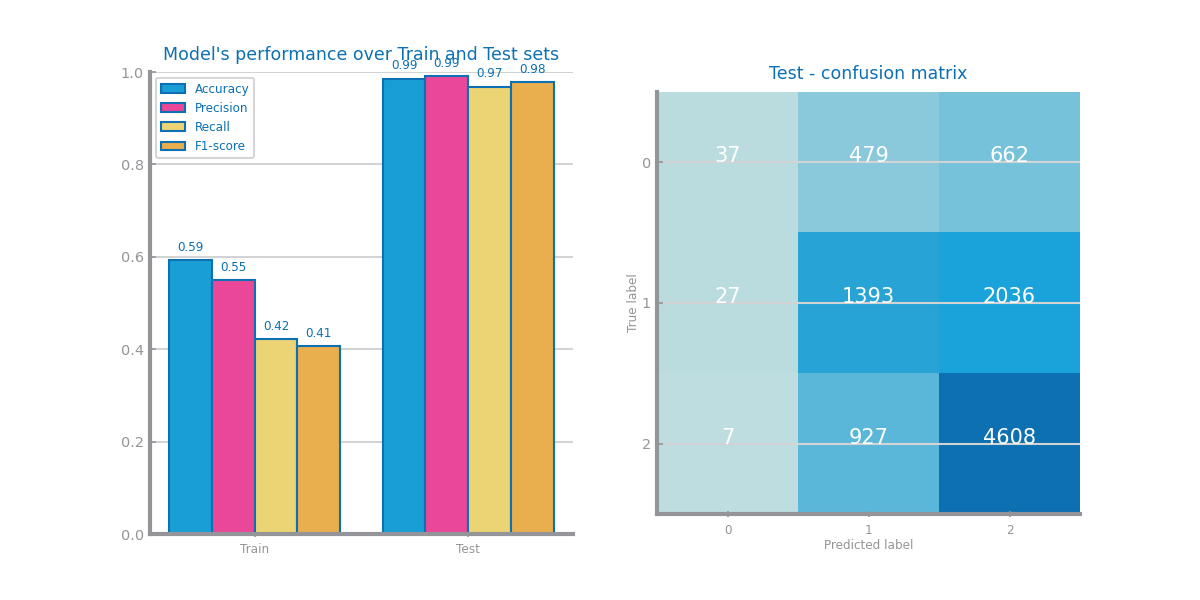
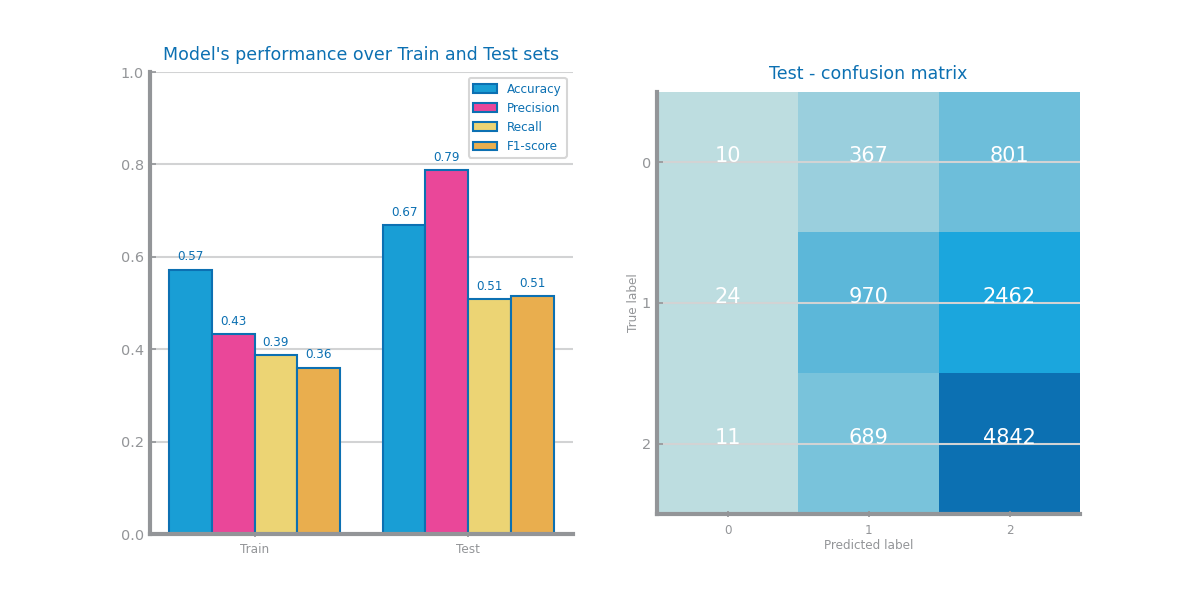
all images added

diff --git a/diabetesDataset/lab4/parameterisationRandomForests.py b/diabetesDataset/lab4/parameterisationRandomForests.py
@@ -3,7 +3,7 @@ from numpy import std, argsort
 from numpy import ndarray
 from pandas import DataFrame, read_csv, unique
 import matplotlib as plt
-from matplotlib.pyplot import figure, subplots, savefig, show, plot
+from matplotlib.pyplot import figure, subplots, savefig, show, tight_layout
 from sklearn.ensemble import RandomForestClassifier
 from ds_charts import set_elements, plot_evaluation_results, multiple_line_chart, horizontal_bar_chart, HEIGHT
 from sklearn.metrics import accuracy_score
@@ -12,7 +12,7 @@ import numpy as np
 import pandas as pd
 
 # %% Load File Tag
-file_tag = 'v1.0'
+file_tag = 'v1.2'
 
 
 # %% Load Datasets
@@ -29,9 +29,9 @@ labels = unique(yTrain)
 labels.sort()
 
 # %% Grid Search
-n_estimators = [5, 10, 25, 50, 75, 100, 200, 300, 400]
-max_depths = [5, 10, 25]
-max_features = [.25, .5, .75, 1]
+n_estimators = [175, 200, 225]
+max_depths = [25, 35, 45]
+max_features = [0.2, .25, 0.3]
 best = ('', 0, 0)
 last_best = 0
 best_model = None
@@ -121,9 +121,11 @@ for f in range(len(variables)):
     elems += [variables[indices[f]]]
     print(f'{f+1}. feature {elems[f]} ({importances[indices[f]]})')
 
-figure()
+figure(figsize=(4, 8))
+
 horizontal_bar_chart(elems, importances[indices], stdevs[indices],
                      title='Random Forest Features importance', xlabel='importance', ylabel='variables')
 savefig(f'images/{file_tag}_rf_ranking.png')
+tight_layout(pad=0.1, w_pad=0.1, h_pad=0.1)
 
 # %%
